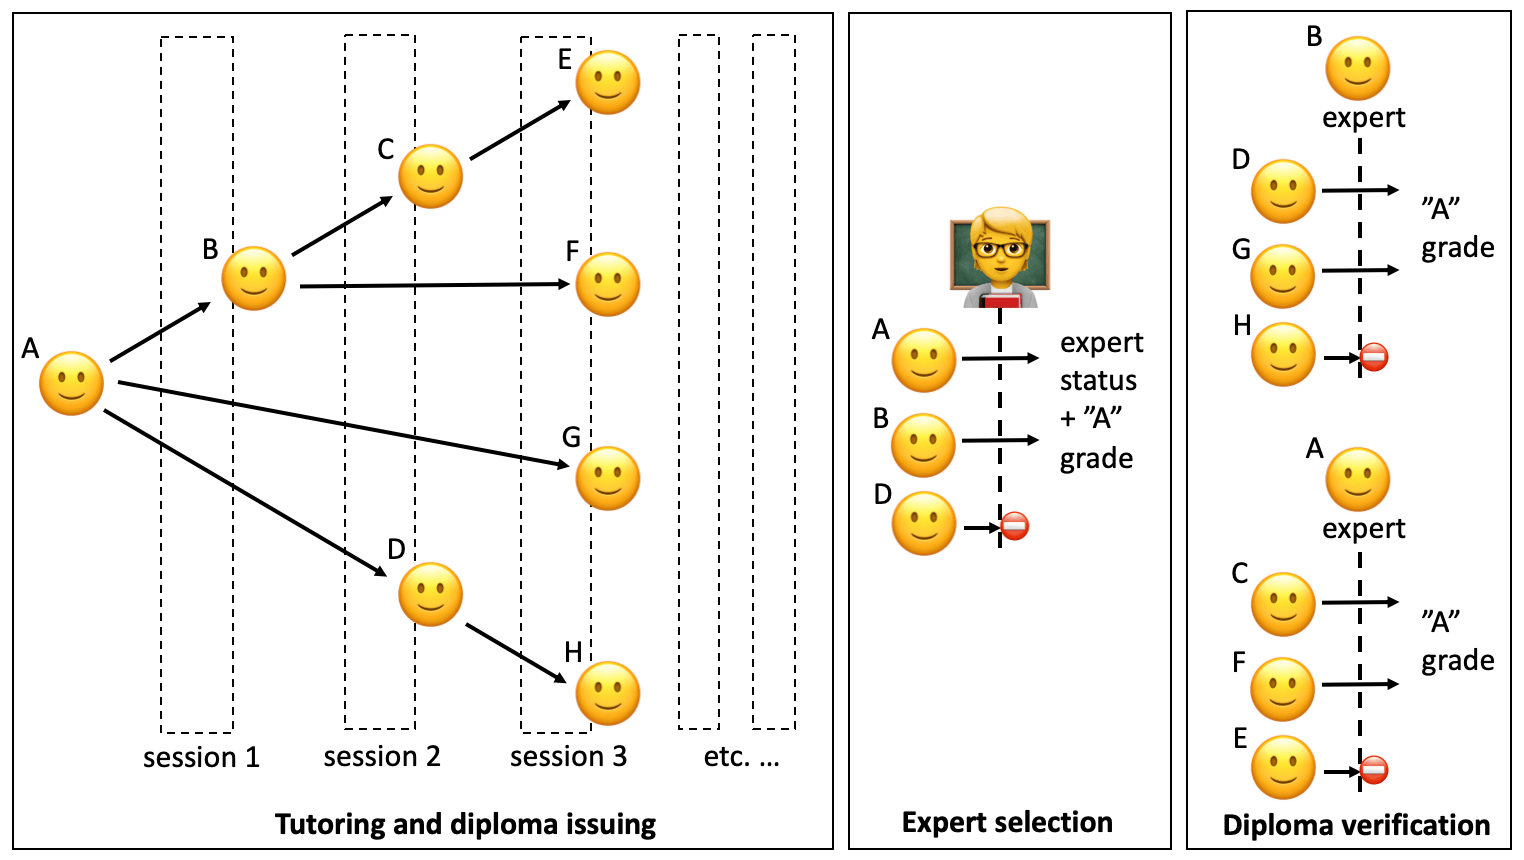
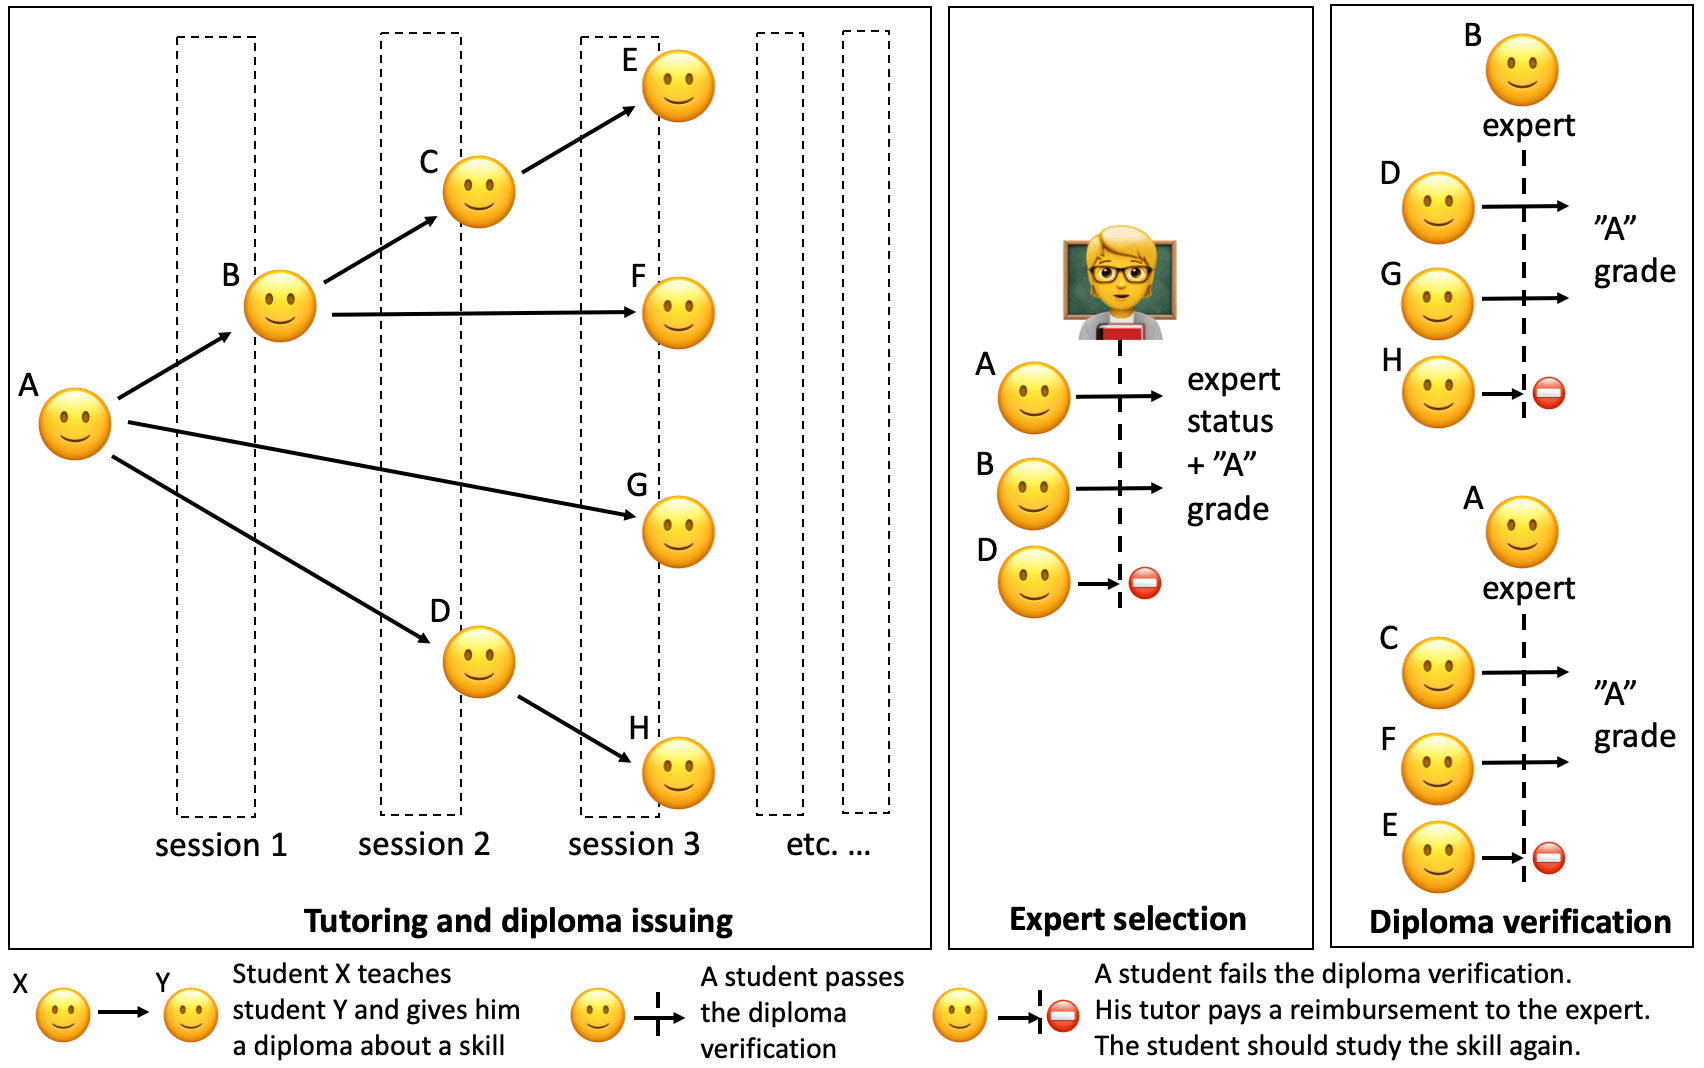
Add more info

diff --git a/slonigiraf/ENG.md b/slonigiraf/ENG.md
@@ -16,9 +16,11 @@ Traditional schooling typically has an efficiency about of [25%](https://link.sp
 
 To address these issues, we propose using money to incentivize students that act as mentors and require them to use recommendation letter system to ensure the quality of such lessons. By doing so, we can motivate students to act as educators while also maintaining educational standards. We have implemented this approach in several schools and observed an increase of the education efficiency up to 75%, with students having an ample time for both learning and teaching within their existing secondary education programs.
 
-## Education model
+## Educational model
 
 <img alt="Image" src="https://github.com/slonigiraf/slon-whitepaper/blob/main/img/lesson.png?raw=true" width="500">
+
+*Figure 1. Proposed educational model*
 
 ## Financial model
 
